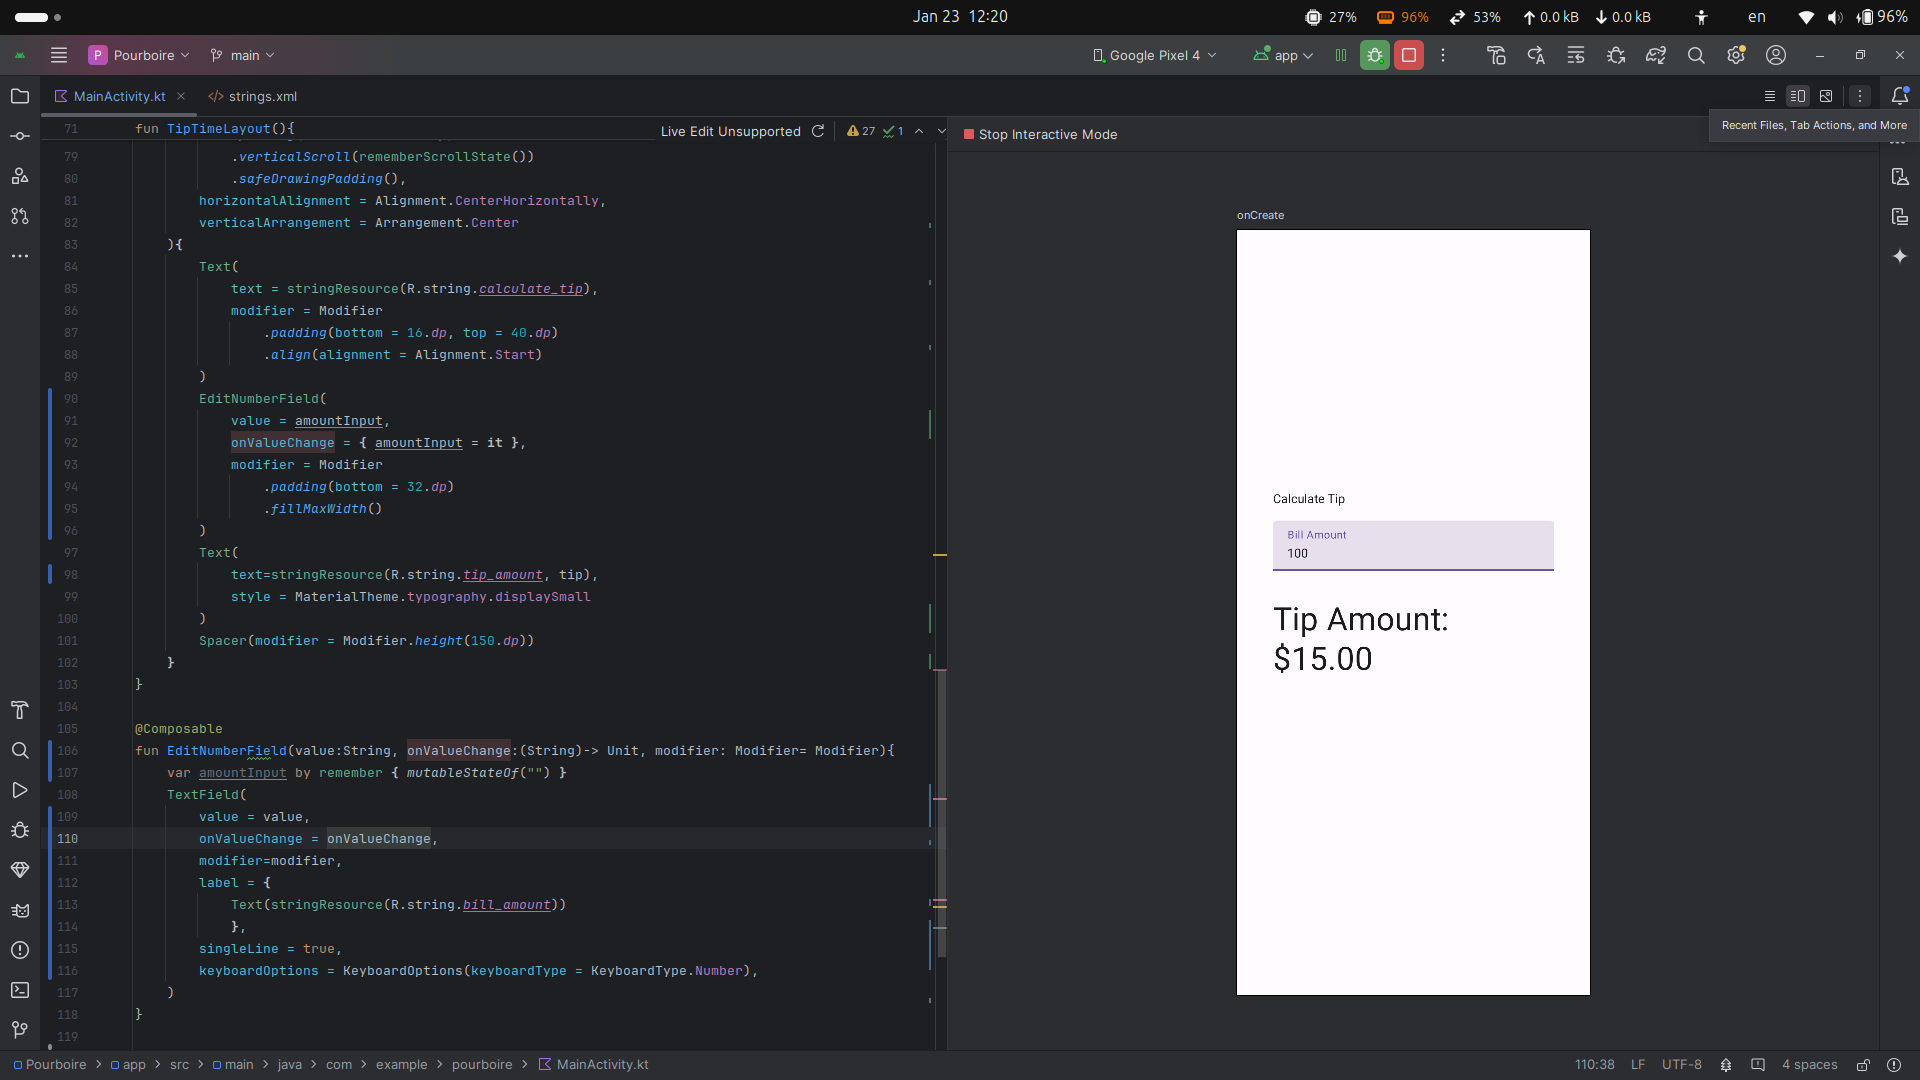
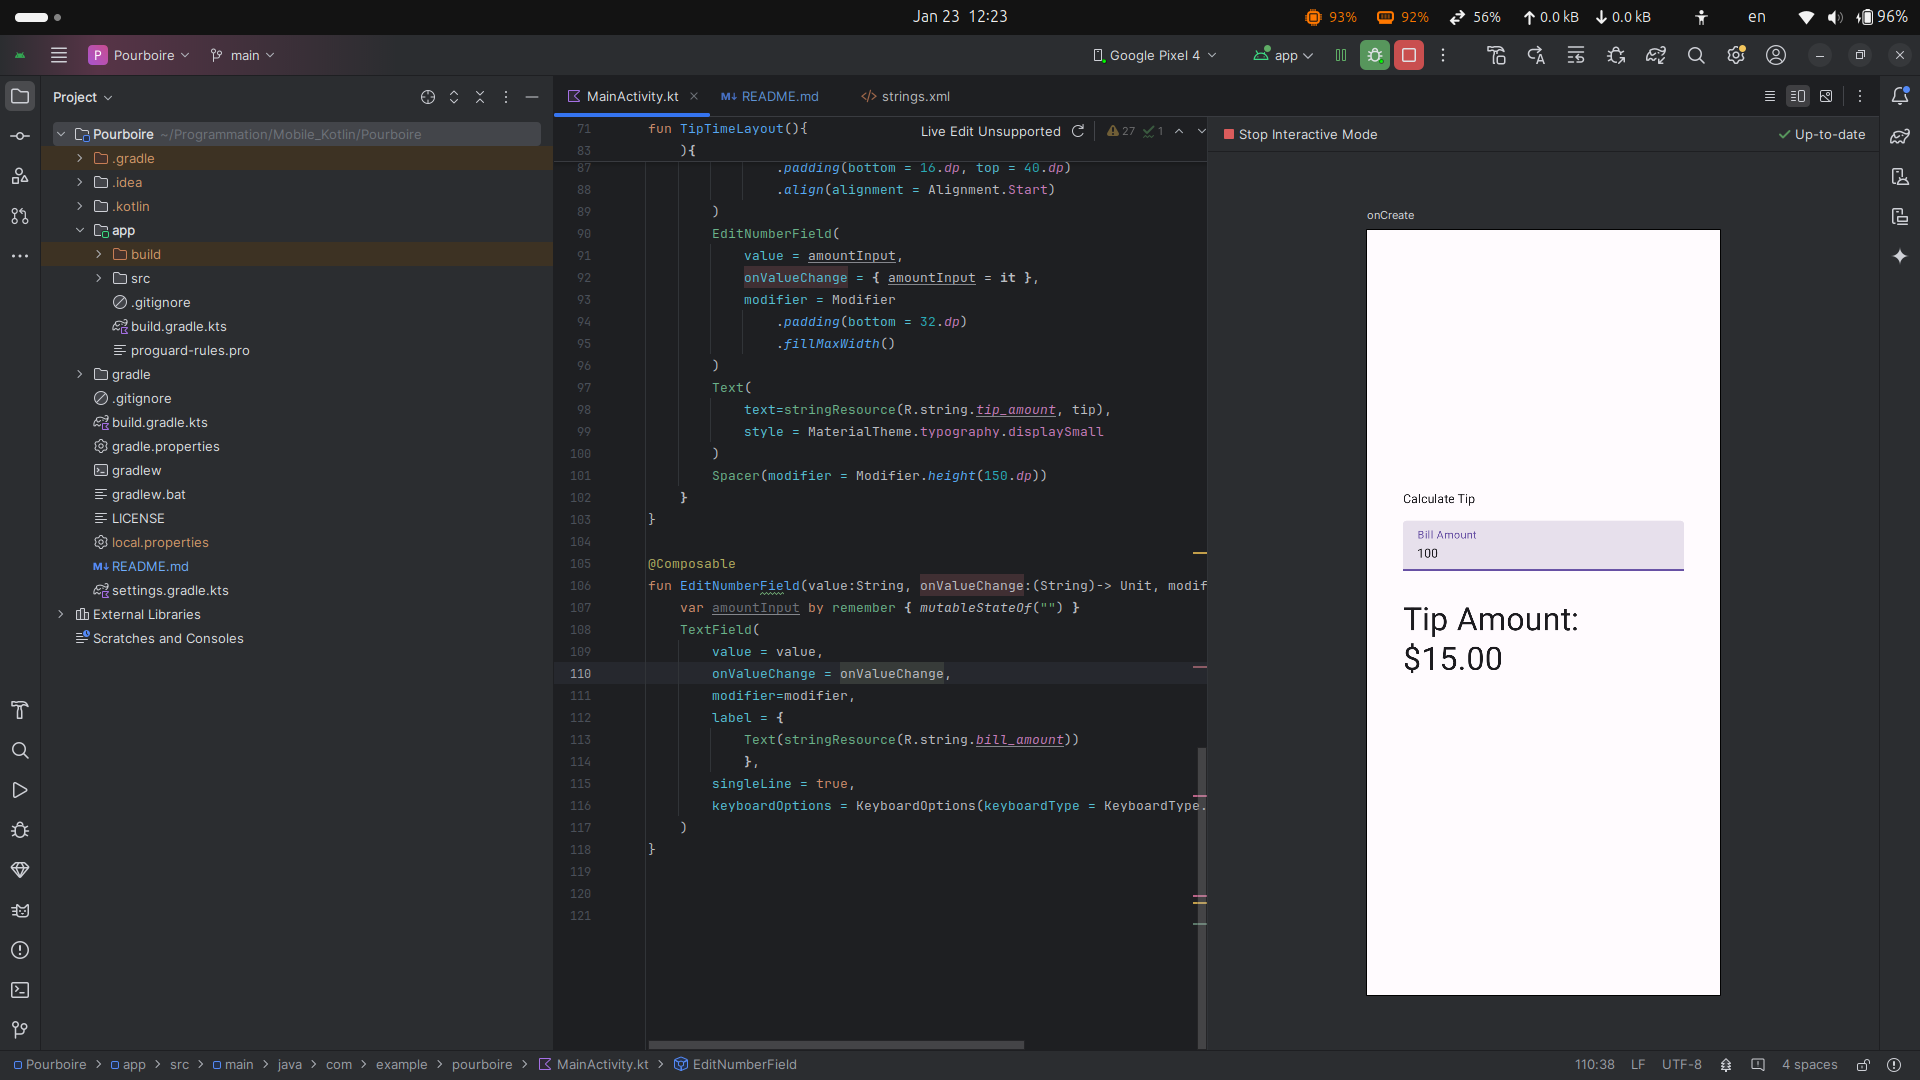
update image du resultat final

diff --git a/README.md b/README.md
@@ -1,3 +1,3 @@
 # PourboireApp
 Application jetpack compose pour gerer les pourboires
-![img.png](Photo du resultat final)
+![Image du resulat final](img.png)
